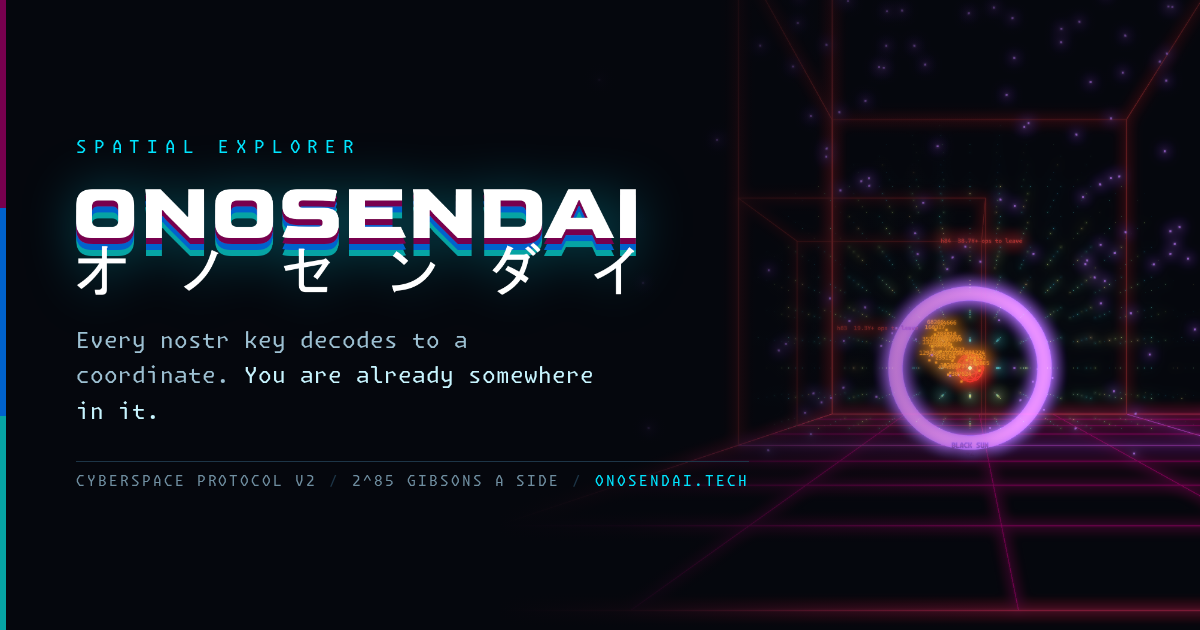
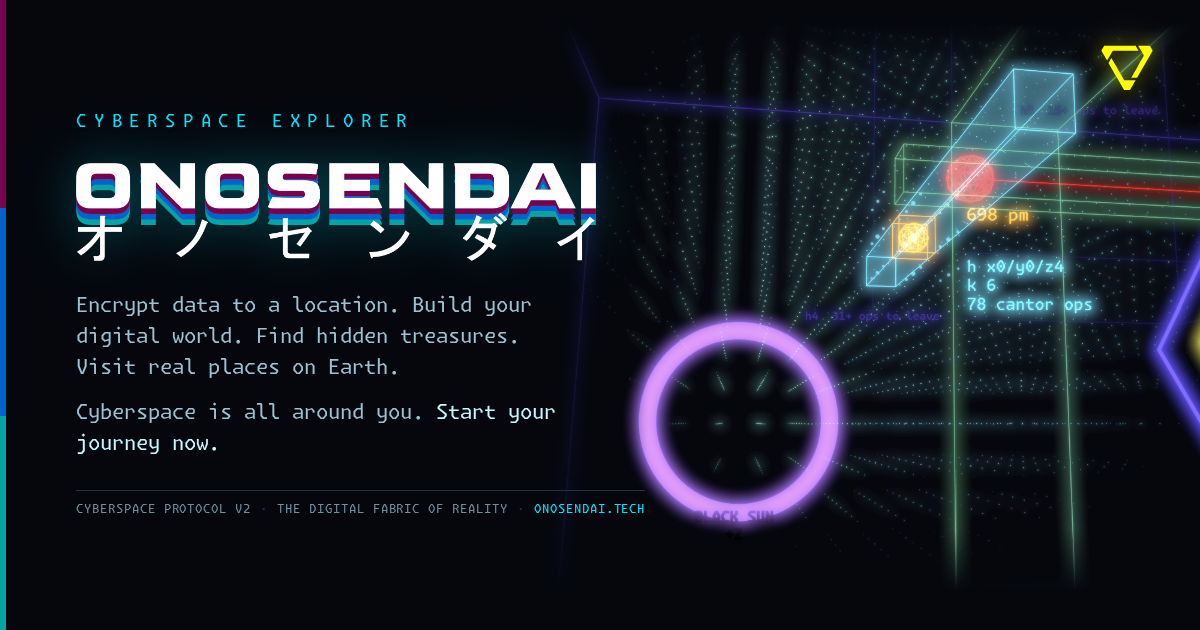
The link preview says what ONOSENDAI is, over a frame of it (#172)
The picture is bg1.png, cropped by measurement rather than by eye. In the
source (1614 x 944) the Black Sun is centred near (450, 662) with a radius of
about 168; at 0.6 scale, offset by (470, 24), its centre lands at (740, 421)
and its circle runs from x 639 to 841. That keeps the whole ring clear of the
text and just past the fade, with the hyperjump beam, the avatar and the
78 cantor ops readout beside it and a slice of the hexagon at the right edge.
The tightest clearance is the small line, which ends at x 645 where the ring's
arc is at 666: about 21px of air. The picture is shorter than the card at that
scale, so it starts at y 24 and ends at 590, and a vertical gradient melts both
edges into the ground instead of leaving the beam's lines to stop at a seam.

The eyebrow is CYBERSPACE EXPLORER rather than SPATIAL. It is what this is, it
matches the browser tab, and geospatial would have promised a map, which the
protocol deliberately is not. The copy below it is arkinox's, and the line that
ends it doubles as the call to action the card was missing.

The app's own mark sits top right in its own hyperjump yellow, drawn from the
pinned-tab vector with its outer square removed: that file is the mark cut out
of a filled square, so recolouring it whole would have produced a yellow box.

opengraph.xyz's three findings, all answered: og:site_name is ONOSENDAI, which
is the line Discord shows above the title; the description was 48 characters
[…]

diff --git a/tools/og-card.html b/tools/og-card.html
@@ -60,28 +60,34 @@
     -webkit-font-smoothing: antialiased;
   }
 
-  /* A real frame of the thing itself: the grid floor receding, the sector
-     cage, the Black Sun.
-     
-     Framed by measurement rather than by eye. In hero.png (2400 x 1260) the
-     ring's centre sits at about (1000, 520). Drawn at 0.6 scale that is
-     (600, 312), and this panel is 700 wide, so -250px puts the ring a little
-     right of the panel's middle with the grid floor still running under it. */
+  /* A real frame of the thing itself: the Black Sun, the dotted rays of the
+     point field, the cyan hyperjump beam with an avatar in it and its readout,
+     and the edge of a neon structure beyond.
+
+     Framed by measurement. In og-hero.png (1614 x 944) the ring is centred
+     near (450, 662) with a radius of about 168. At 0.6 scale that is (270,
+     397) and 101, so offsetting by (470, 24) puts the ring's centre at about
+     (740, 421) and its whole circle between x 639 and 841: clear of the text
+     column and of the meta line, which ends near x 672, and far enough left
+     that a slice of the hexagon still reaches the right edge. */
   .scene {
-    position: absolute; top: 0; right: 0; bottom: 0; width: 700px;
+    position: absolute; inset: 0;
     background-image: url('./og-hero.png');
-    background-size: 1440px auto;
-    background-position: -250px -10px;
     background-repeat: no-repeat;
+    background-size: 968px auto;
+    background-position: 470px 24px;
   }
-  /* Dissolve its left edge into the ground rather than ending on a seam, and
-     take the top corner down so nothing competes with the wordmark. */
+  /* Dark behind the type, clear by the time it reaches the ring's left edge,
+     so the ring reads whole and the fade does not dim it. The picture is 566
+     tall at this scale and the card 630, so it starts at y 24 and ends at 590;
+     the vertical gradient melts both edges into the ground instead of leaving
+     the beam's lines to stop dead at a seam. */
   .scene::after {
     content: '';
     position: absolute; inset: 0;
     background:
-      linear-gradient(to right, var(--bg) 0%, rgba(5,7,13,0.88) 18%, rgba(5,7,13,0.35) 46%, rgba(5,7,13,0) 74%),
-      linear-gradient(to bottom, rgba(5,7,13,0.45) 0%, rgba(5,7,13,0) 26%);
+      linear-gradient(to right, var(--bg) 0%, rgba(5,7,13,0.97) 40%, rgba(5,7,13,0.55) 49%, rgba(5,7,13,0) 54%),
+      linear-gradient(to bottom, var(--bg) 0%, var(--bg) 3.8%, rgba(5,7,13,0) 10%, rgba(5,7,13,0) 84%, var(--bg) 93.7%, var(--bg) 100%);
   }
 
   /* The wordmark's bands, in the order they sit in the logo. */
@@ -91,7 +97,7 @@
   }
 
   .plate {
-    position: absolute; left: 76px; top: 0; bottom: 0; width: 600px;
+    position: absolute; left: 76px; top: 0; bottom: 0; width: 540px;
     display: flex; flex-direction: column; justify-content: center;
     gap: 30px; z-index: 2;
   }
@@ -102,35 +108,54 @@
   }
 
   /* The wordmark itself, not typeset: those offset bands are the identity. */
-  .mark { width: 560px; height: auto; display: block; filter: drop-shadow(0 0 26px rgba(0, 229, 255, 0.28)); }
+  .mark { width: 520px; height: auto; display: block; filter: drop-shadow(0 0 26px rgba(0, 229, 255, 0.28)); }
 
+  /* The two lines of copy sit closer to each other than to the wordmark and
+     the rule, so they read as one statement and its invitation. */
+  .copy { display: flex; flex-direction: column; gap: 14px; }
   .tagline {
-    font-size: 22px; line-height: 1.6; color: #9dc0d2; max-width: 520px;
+    font-size: 20px; line-height: 1.55; color: #9dc0d2; max-width: 500px;
   }
-  .tagline b { color: var(--fg); font-weight: 400; }
+  .call { font-size: 20px; line-height: 1.55; color: #9dc0d2; max-width: 520px; }
+  .call b { color: var(--fg); font-weight: 400; }
 
   .meta {
-    display: flex; align-items: center; gap: 12px;
-    font-size: 14px; letter-spacing: 0.14em; color: var(--dim);
+    display: flex; align-items: center; gap: 9px;
+    font-size: 12px; letter-spacing: 0.08em; color: var(--dim);
     text-transform: uppercase;
     padding-top: 12px; border-top: 1px solid var(--border); width: max-content;
   }
   .meta .dot { color: var(--border); }
+
+  /* The app's own mark, top right, in its own hyperjump yellow. Drawn from the
+     pinned-tab vector with its outer square removed (that file is the mark cut
+     out of a filled square), so it is crisp at any size and has no box. */
+  .glyph {
+    position: absolute; top: 34px; right: 40px; width: 66px; height: 66px; z-index: 3;
+    filter: drop-shadow(0 0 10px rgba(255, 255, 0, 0.45)) drop-shadow(0 0 22px rgba(255, 255, 0, 0.18));
+  }
   .meta .host { color: var(--accent); }
 </style>
 </head>
 <body>
   <div class="scene"></div>
   <div class="spine"></div>
+  <svg class="glyph" viewBox="0 0 500 500" aria-hidden="true"><g transform="translate(0,500) scale(0.1,-0.1)" fill="#FFFF00">
+    <path d="M3262 3922 l107 -187 -972 -3 -972 -3 -211 -366 c-115 -202 -214 -368 -220 -370 -5 -2 -106 164 -223 369 l-215 371 28 51 c16 28 64 113 108 189 l80 137 1191 0 1192 -1 107 -187z m1046 51 c44 -76 92 -161 108 -189 l28 -51 -591 -1024 -592 -1024 -220 -3 c-122 -1 -221 0 -221 4 0 3 212 372 471 821 258 448 475 825 481 838 9 19 -16 67 -197 381 -114 197 -209 364 -212 371 -4 11 76 13 430 13 l435 0 80 -137z m-2499 -1639 l479 -829 431 -3 c237 -1 431 -4 431 -6 0 -3 -96 -170 -213 -373 l-213 -368 -224 0 -224 0 -588 1018 c-323 560 -588 1024 -588 1030 0 10 34 71 172 310 24 41 44 65 49 60 5 -5 225 -382 488 -839z"/>
+  </g></svg>
+
   <div class="plate">
-    <div class="eyebrow">Spatial Explorer</div>
+    <div class="eyebrow">Cyberspace Explorer</div>
     <img class="mark" src="../public/logo.png" alt="ONOSENDAI">
-    <p class="tagline">Every nostr key decodes to a coordinate. <b>You are already somewhere in it.</b></p>
+    <div class="copy">
+      <p class="tagline">Encrypt data to a location. Build your digital world. Find hidden treasures. Visit real places on Earth.</p>
+      <p class="call">Cyberspace is all around you. <b>Start your journey now.</b></p>
+    </div>
     <div class="meta">
       <span>Cyberspace Protocol v2</span>
-      <span class="dot">/</span>
-      <span>2^85 gibsons a side</span>
-      <span class="dot">/</span>
+      <span class="dot">&middot;</span>
+      <span>The digital fabric of reality</span>
+      <span class="dot">&middot;</span>
       <span class="host">onosendai.tech</span>
     </div>
   </div>

diff --git a/index.html b/index.html
@@ -10,7 +10,7 @@
     <meta http-equiv="Expires" content="0" />
     
     <title>ONOSENDAI V2 — Cyberspace Explorer</title>
-    <meta name="description" content="Spatial explorer for the Cyberspace Protocol v2." />
+    <meta name="description" content="Cyberspace is the digital fabric of reality. Encrypt data to a location, build your digital world, find hidden treasures and visit real places on Earth." />
 
     <!--
       The link preview. og:image has to be absolute, so it names the production
@@ -20,13 +20,14 @@
     -->
     <meta property="og:type" content="website" />
     <meta property="og:url" content="https://onosendai.tech/" />
+    <meta property="og:site_name" content="ONOSENDAI" />
     <meta property="og:title" content="ONOSENDAI" />
-    <meta property="og:description" content="Every nostr key decodes to a coordinate. You are already somewhere in it." />
+    <meta property="og:description" content="Cyberspace is the digital fabric of reality. Encrypt data to a location, build your digital world, find hidden treasures and visit real places on Earth." />
     <meta property="og:image" content="https://onosendai.tech/og.png" />
     <meta property="og:image:type" content="image/png" />
     <meta property="og:image:width" content="1200" />
     <meta property="og:image:height" content="630" />
-    <meta property="og:image:alt" content="The ONOSENDAI wordmark beside a neon grid receding under a glowing ring, the Black Sun." />
+    <meta property="og:image:alt" content="The ONOSENDAI wordmark and its yellow mark beside a scene from the app: the violet ring of the Black Sun, a cyan hyperjump beam with an avatar inside it, and a neon structure beyond." />
     <meta name="twitter:card" content="summary_large_image" />
     
     <link rel="apple-touch-icon" sizes="180x180" href="/apple-touch-icon.png?v=1">
